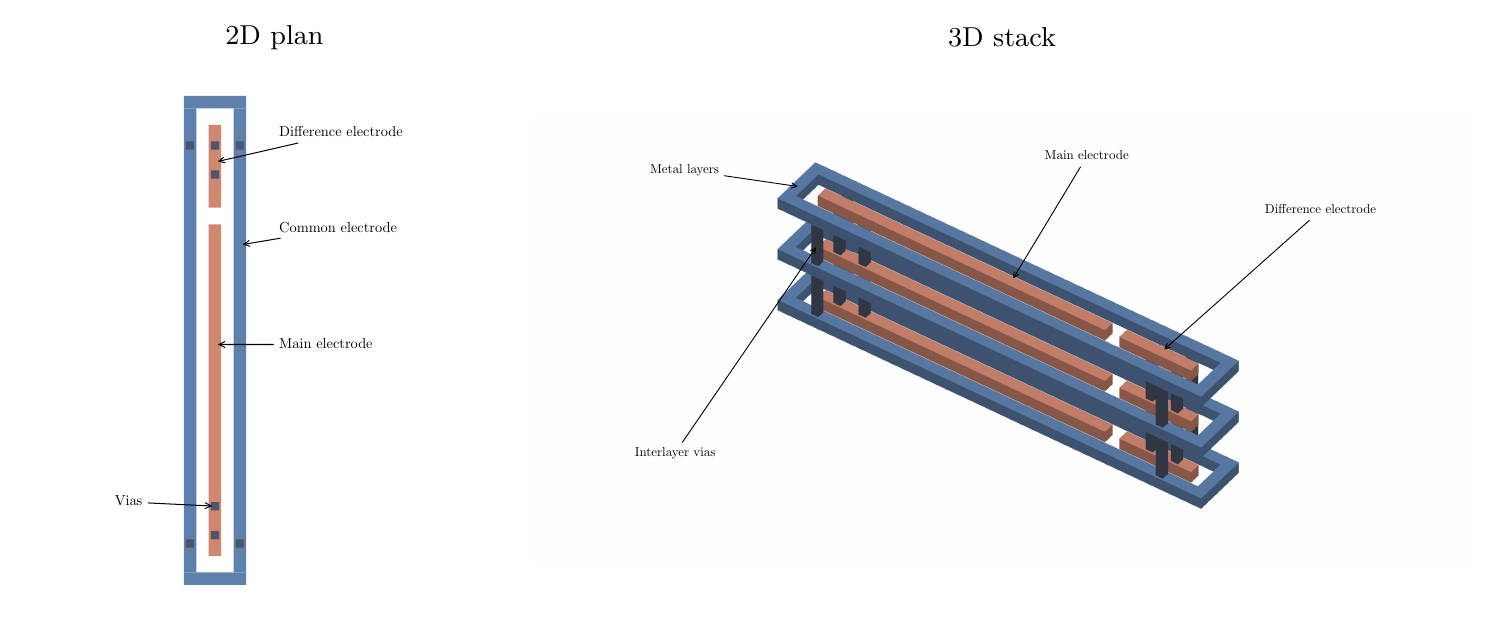
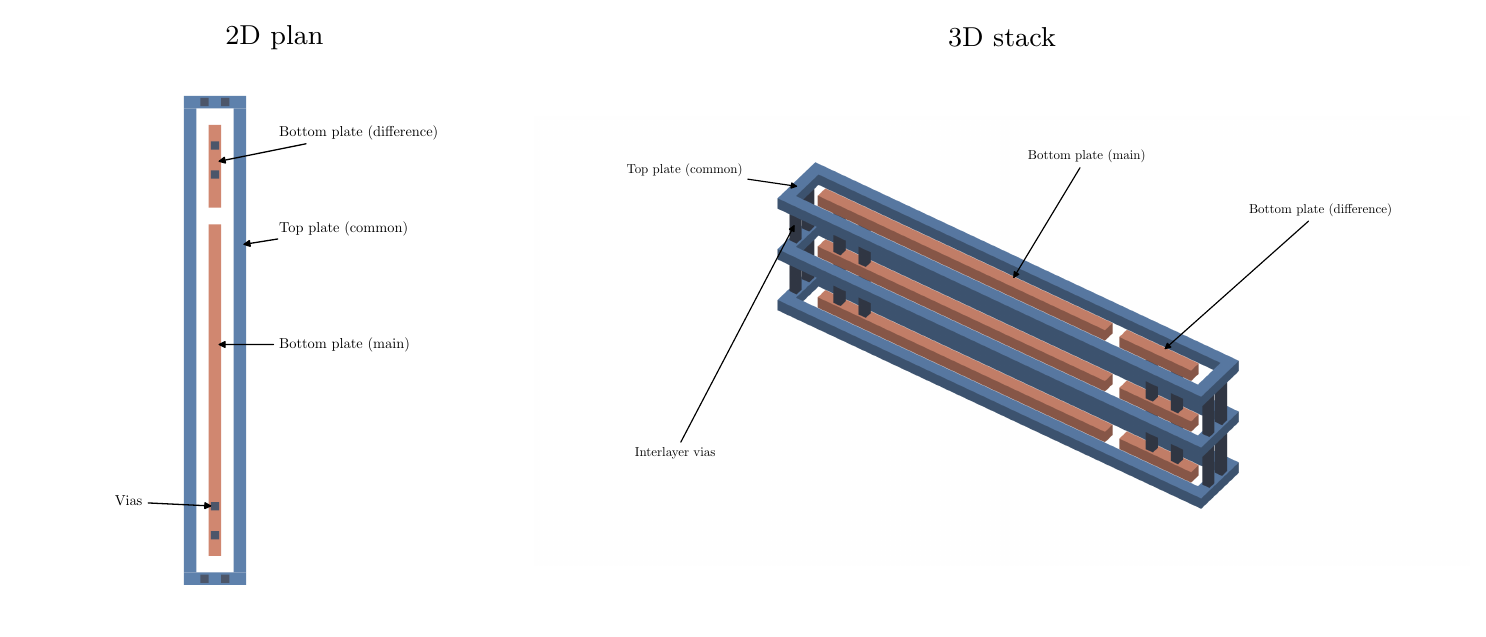
fix(images): refine capacitor via placement and annotations
- Move common-plate vias to the top and bottom ends of the plan view.
- Label the plates consistently with filled arrows and matched stroke weights.
- Verify nearest surfaces, face-order independence, and via landings.

diff --git a/docs/images/report/capacitor_generation.md b/docs/images/report/capacitor_generation.md
@@ -4,9 +4,9 @@
 
 The Python source uses the existing `_insert_ring` and `_insert_box` helpers from `flow/caparray/laygen.py` to write `capacitor_toy.gds`. Both views then read that same GDS through KLayout. This is an illustrative shortened cell, not an extraction of the full ADC layout. Blue identifies the common electrode; orange identifies the separate main and difference electrodes. Opposite switching gives an effective element capacitance of C_eff,N = C_N,main − C_N,diff; capacitances are not calculated by this renderer.
 
-The GDS stores three repeated metal planes and two sets of inter-plane vias. Semantic layers 200/201/202 identify common/main/difference metal on the lowest plane, 210/211/212 on the middle plane, and 220/221/222 on the highest plane. Layers 203/204/205 and 213/214/215 contain vias for the corresponding electrodes. Each inner strip has two vias near its outer end, away from the main/difference split, following docs/images/diffcaps.png. Common-electrode vias are near the outer ends of both ring rails. The stack contains 16 interlayer vias in total; vias use Nord grey in both views. These are drawing roles, not foundry layer numbers. The source supplies illustrative metal thickness and vertical pitch; dielectric, shielding, substrate and external routing are omitted.
+The GDS stores three repeated metal planes and two sets of inter-plane vias. Semantic layers 200/201/202 identify common/main/difference metal on the lowest plane, 210/211/212 on the middle plane, and 220/221/222 on the highest plane. Layers 203/204/205 and 213/214/215 contain vias for the corresponding electrodes. Each inner strip has two vias near its outer end, away from the main/difference split, following docs/images/diffcaps.png. Common-electrode vias are on the top and bottom end bars in the vertical plan view, with two on each end bar. The stack contains 16 interlayer vias in total; vias use Nord grey in both views. These are drawing roles, not foundry layer numbers. The source supplies illustrative metal thickness and vertical pitch; dielectric, shielding, substrate and external routing are omitted.
 
-The plan view uses vector Matplotlib rectangles. The perspective uses Matplotlib's orthographic 3D projection, Nord colors, and face lighting. Each cuboid face, including its underside, is split into triangles and rasterized with a shared per-pixel depth buffer. This replaces the previous average-depth face sorting, which incorrectly placed portions of long orange faces in front of blue rails. Rendering at 600 dpi and averaging each 2 × 2 group produces an antialiased 300 dpi image. The perspective PDF embeds this raster; the plan PDF remains vector. Every projected geometry vertex is checked against the canvas margins to catch cropping. A lower-resolution reversed-face-order render must match exactly; an independent ray/box intersection audit checks the nearest visible material and its lighting at sampled pixels. All via footprints must land fully within their matching electrodes on both adjacent metal planes. Black arrow annotations use Matplotlib’s LaTeX renderer and Computer Modern text; the combined side-by-side panel uses Latin Modern in TeX.
+The plan view uses vector Matplotlib rectangles. The perspective uses Matplotlib's orthographic 3D projection, Nord colors, and face lighting. Each cuboid face, including its underside, is split into triangles and rasterized with a shared per-pixel depth buffer. This replaces the previous average-depth face sorting, which incorrectly placed portions of long orange faces in front of blue rails. Rendering at 600 dpi and averaging each 2 × 2 group produces an antialiased 300 dpi image. The perspective PDF embeds this raster; the plan PDF remains vector. Every projected geometry vertex is checked against the canvas margins to catch cropping. A lower-resolution reversed-face-order render must match exactly; an independent ray/box intersection audit checks the nearest visible material and its lighting at sampled pixels. All via footprints must land fully within their matching electrodes on both adjacent metal planes. Black annotations use filled arrowheads and 0.9-point source strokes (approximately 0.4 points after panel scaling, matching the schematic wire stroke). Labels use Matplotlib’s LaTeX renderer and Computer Modern text; the combined side-by-side panel uses Latin Modern in TeX.
 
 Regenerate from `/local/frida` using the existing virtual environment, KLayout Python module, Matplotlib, LaTeX and Poppler:
 
@@ -18,4 +18,4 @@ pdftoppm -r 220 -singlefile -png capacitor_views.pdf capacitor_views
 cp capacitor_views.pdf capacitor_views.png ../../docs/images/report/
 ```
 
-Inspect `capacitor_perspective.png` and the assembled `capacitor_views.png` after changing geometry or the camera. Labels identify the electrodes, metal stack, and interlayer vias. Keep provenance, layer assumptions, and omitted structures in the report caption. Blender is not needed for this workflow.
+Inspect `capacitor_perspective.png` and the assembled `capacitor_views.png` after changing geometry or the camera. Labels identify Top plate (common), Bottom plate (main), Bottom plate (difference), and interlayer vias. Keep provenance, layer assumptions, and omitted structures in the report caption. Blender is not needed for this workflow.
